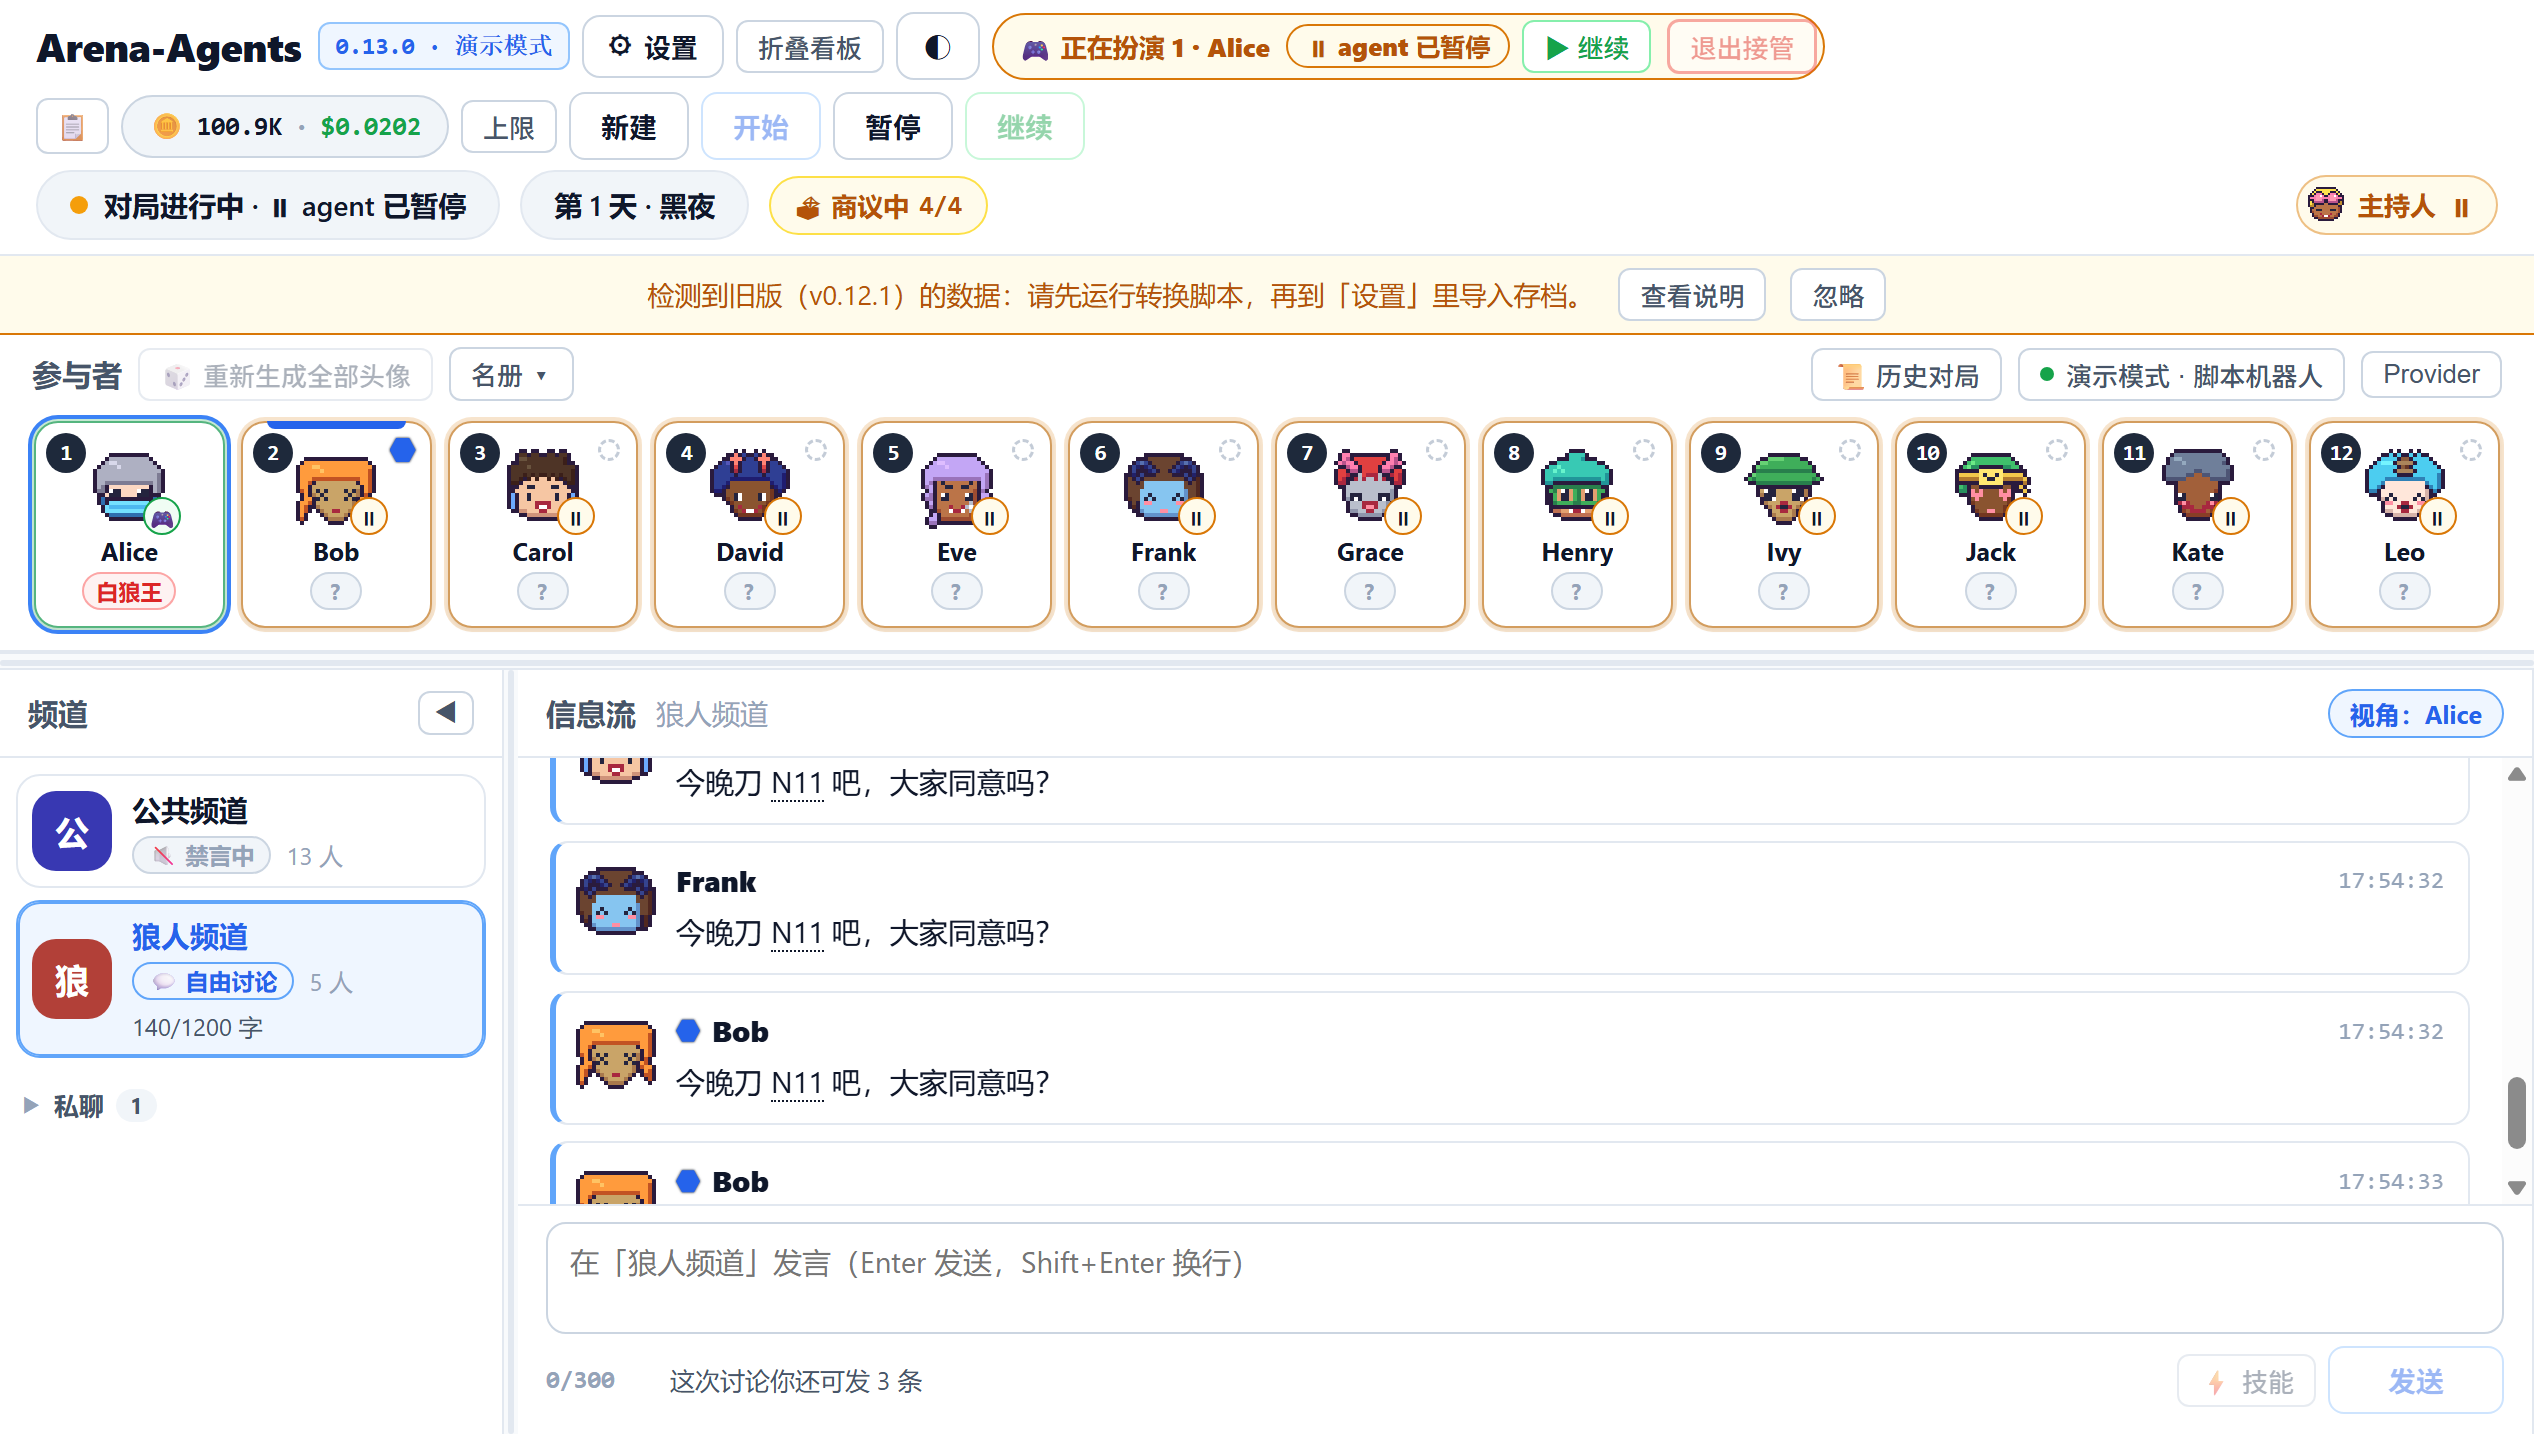
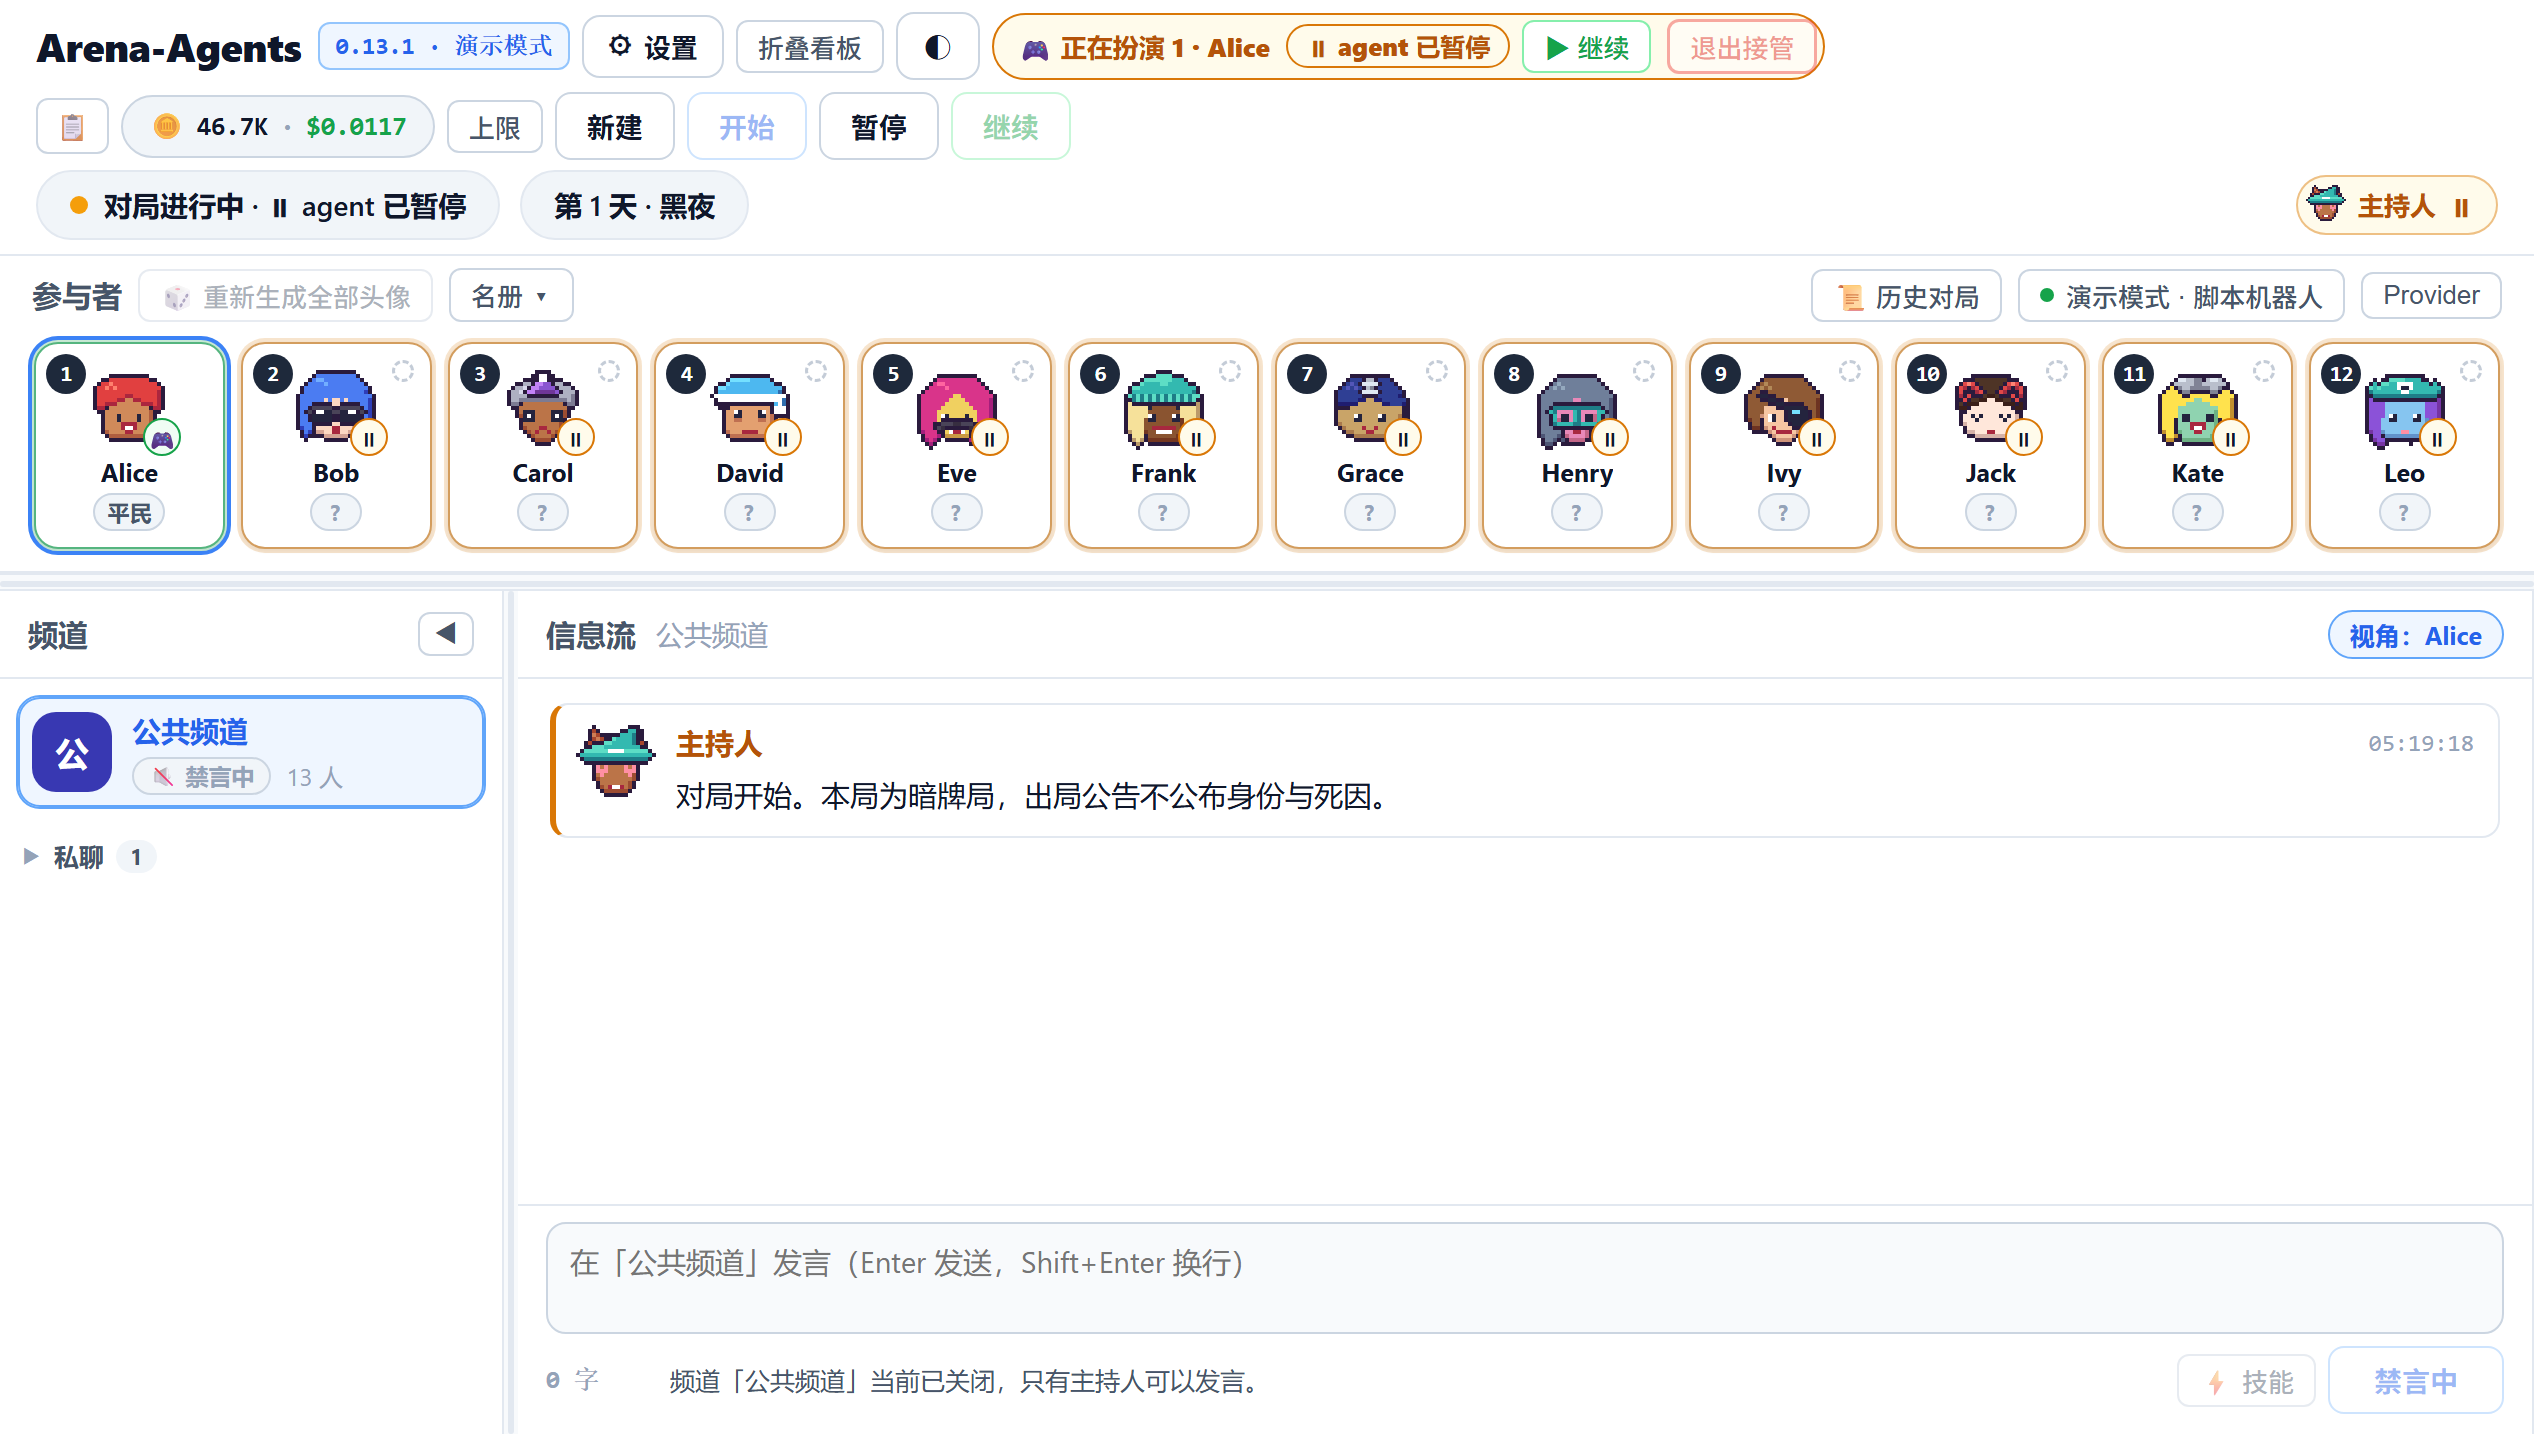
docs(v0.13.1): refresh release evidence and release history

diff --git a/README.md b/README.md
@@ -355,7 +355,7 @@ docs/            架构、契约、Provider、存储、存档与 UI 文档，doc
 投票等选择请求改为**先选后提交**。头像编号可以精确重建同款头像；复盘改为更新固定座位的印象与经验，
 主持人模型完善的性格改为限长的固定格式行为指引。决策与测试方案见
 [docs/v0.13.1-plan.md](docs/v0.13.1-plan.md)（G1–G45）。
-上一个版本 [0.13.0](https://github.com/chengyuchen1037/Arena-Agents/releases/tag/v0.13.0) 引入座位接管、
+同一 0.13 系列的 0.13.0 变更引入了座位接管、
 每频道输入框、数据目录、单个 `.arenaagents` 存档和历史重放；本版的**存档仍为 v5、存档包格式仍为 1**。
 **v0.13 不能直接打开 v0.12.1 的数据**（工作文件夹概念已删除）：用 `tools/migrate_v0121_to_archive.py`
 转换后在设置里导入，细节见 [docs/storage.md](docs/storage.md#upgrading-from-v0121)。

diff --git a/docs/v0.13.1-acceptance.md b/docs/v0.13.1-acceptance.md
@@ -55,6 +55,6 @@
 
 ## 未运行项与边界
 
-- **真实模型整局未运行**：当前执行环境没有可用的模型 API 凭据。因此，真实模型的复盘 JSON、固定格式性格和整局稳定性不标记为通过；上述相应流程使用演示机器人和确定性的模拟应答。
+- **真实模型整局未运行**：本次 v0.13.1 验收未使用真实模型运行整局。因此，真实模型的复盘 JSON、固定格式性格和整局稳定性不标记为通过；上述相应流程使用演示机器人和确定性的模拟应答。
 - 本机浏览器与自动化验收在 Windows 上完成；没有声称本机执行了 Linux CI。
 - 已接受的产品边界（例如排队 agent 的旧状态显示、软暂停的弱提示、`held` 使用可丢弃的 `agent.status`、日志环淘汰后的计数语义）以方案和契约为准，不在本次收尾中扩大范围。

diff --git a/README.en.md b/README.en.md
@@ -434,7 +434,7 @@ colour marks, thinking records and an LLM call log; votes and other choices now 
 An avatar code recreates exactly the same avatar, reviews update bounded impressions / lessons instead of
 appending diaries, and model-completed personas use a fixed behavioural template. Decisions and the test plan:
 [docs/v0.13.1-plan.md](docs/v0.13.1-plan.md) (G1–G45, in Chinese).
-The previous version, [0.13.0](https://github.com/chengyuchen1037/Arena-Agents/releases/tag/v0.13.0), introduced
+The 0.13.0 changes in this series introduced
 seat take-over, per-channel composers, the data directory, single-file `.arenaagents` archives and replay. This
 release keeps **save format v5 and archive format 1**. **v0.13 cannot open v0.12.1 data directly** (the workspace
 concept is gone): convert it with `tools/migrate_v0121_to_archive.py` and import the archive in the settings, see

diff --git a/docs/ui-guide.md b/docs/ui-guide.md
@@ -1,6 +1,6 @@
 # UI Guide
 
-This guide describes the **v0.12.1** web UI. The UI itself is in Chinese; the Chinese label of a
+This guide describes the **v0.13.1** web UI. The UI itself is in Chinese; the Chinese label of a
 control is given in italics where it helps you find it. Everything below can be tried without an API
 key: start the server with `ARENA_DEMO=1` (scripted bots) or run the UI mock (see
 [Working on the UI](#working-on-the-ui)).
